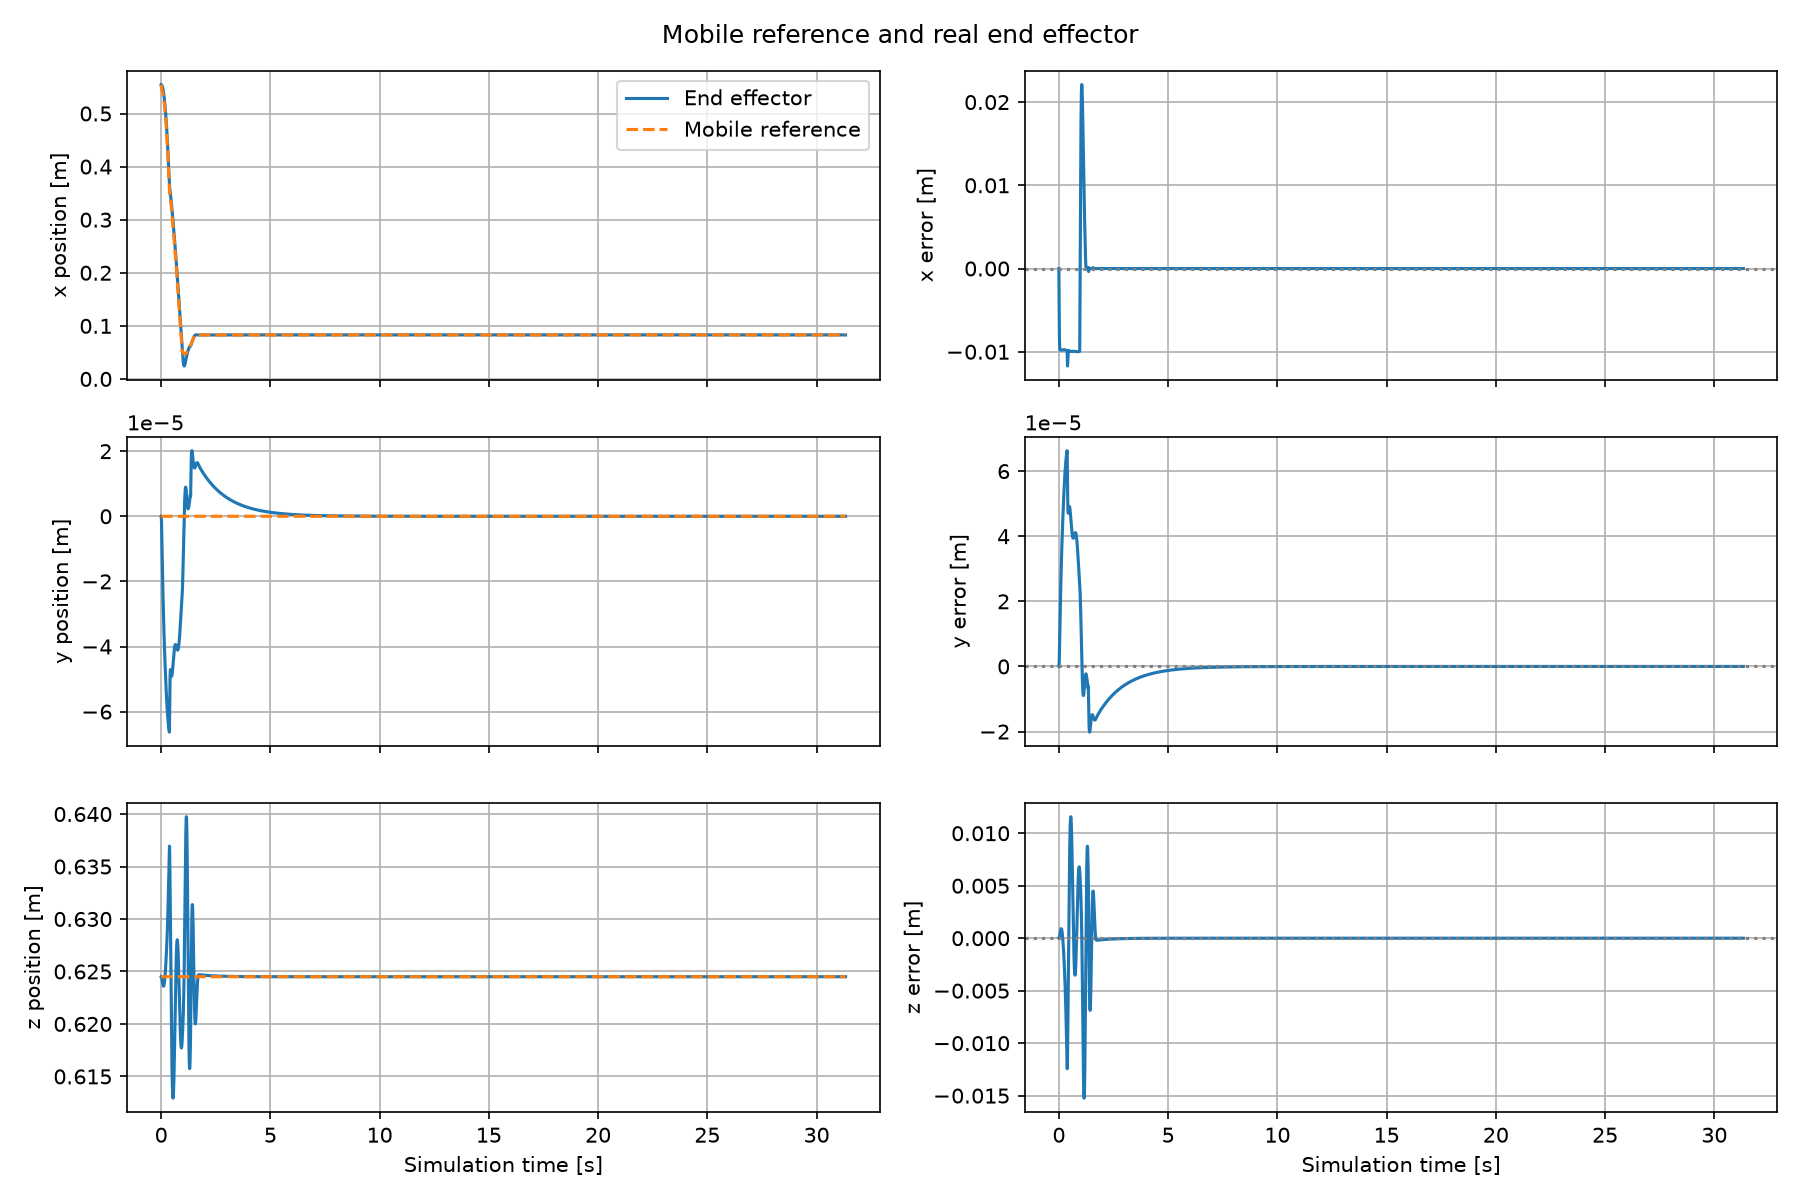
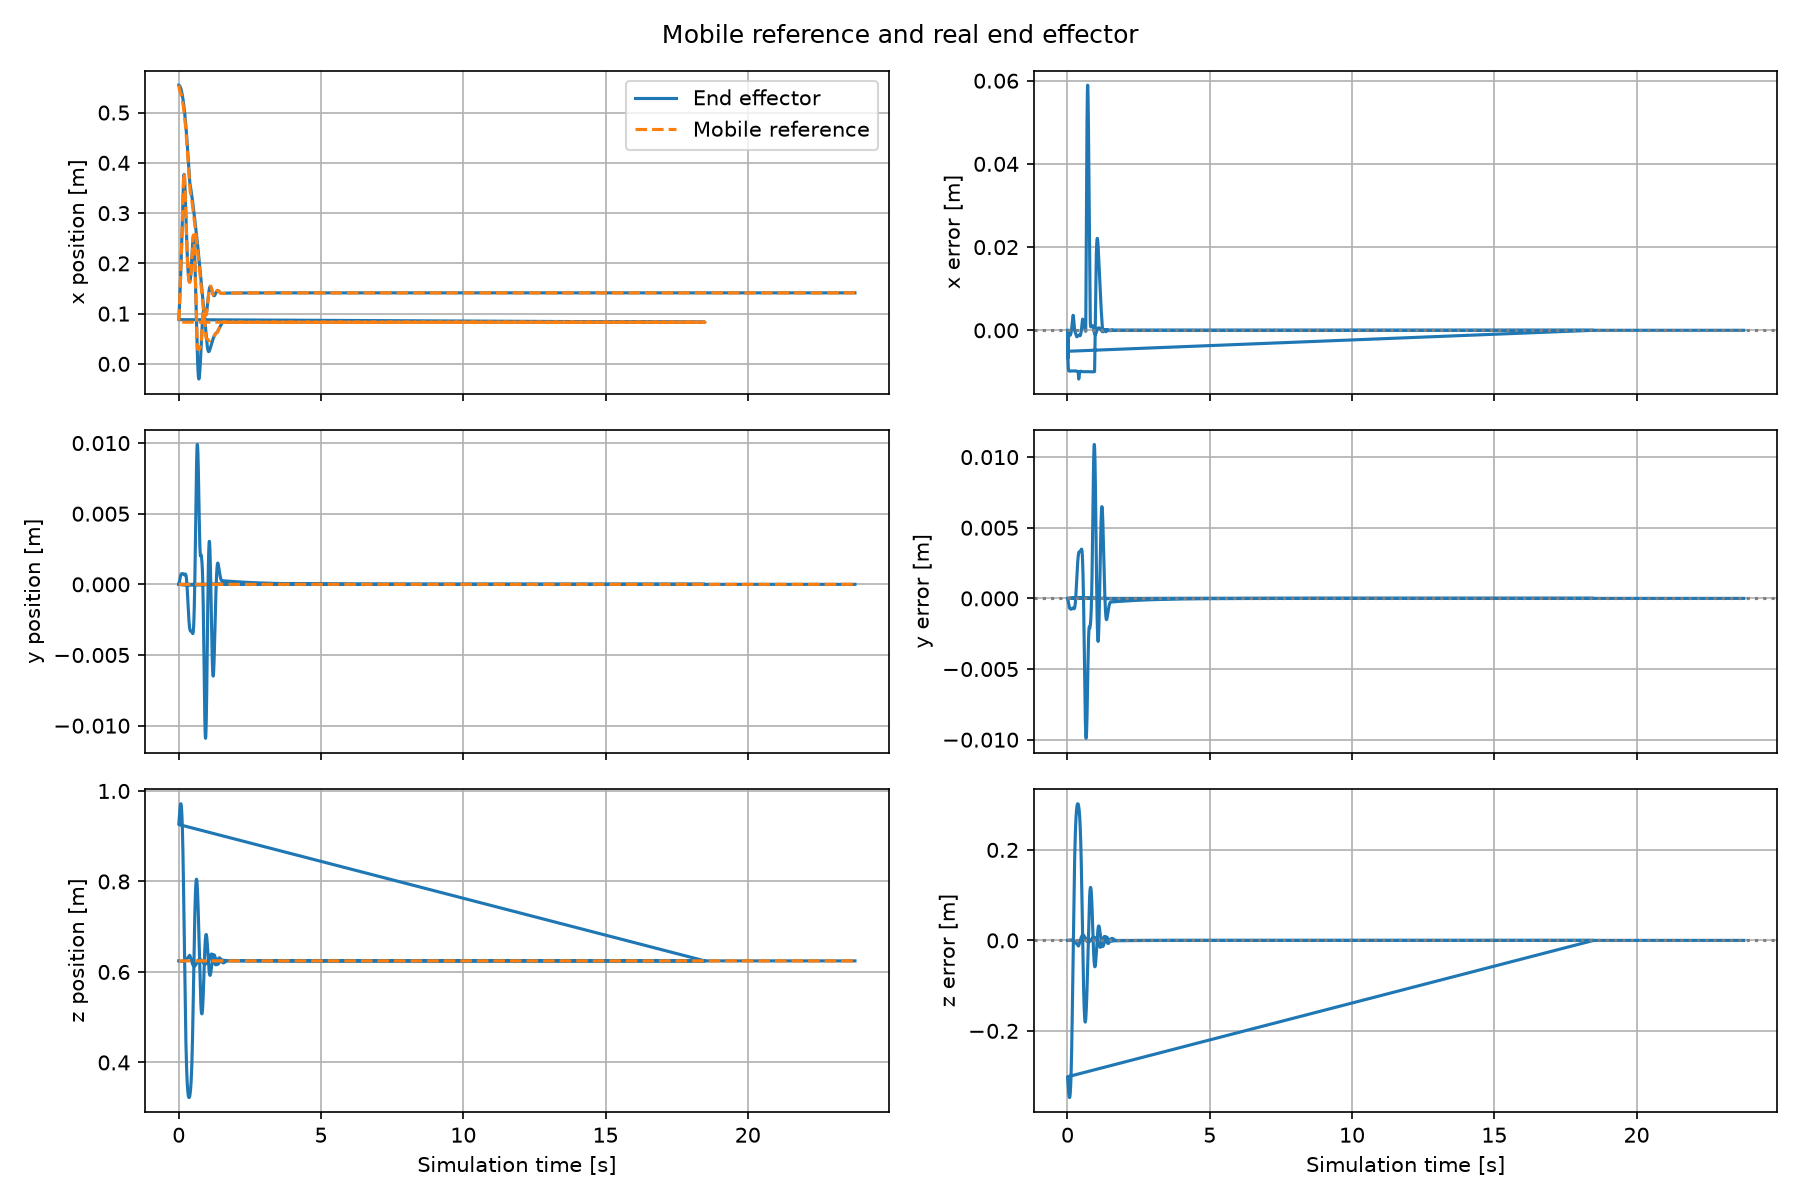
prove ros

diff --git a/FR3/homework2_mobx_fr3.py b/FR3/homework2_mobx_fr3.py
@@ -244,7 +244,7 @@ with mujoco.viewer.launch_passive(model_real, data_real) as viewer:
         # qfrc_applied is indexed by DoF. Because this slide's axis is -x,
         # +20 N in its generalized coordinate pushes the carriage toward -x.
         # Set it every cycle so the post-limit value remains explicitly zero.
-        data_virt.qfrc_applied[rail_dof_id_virt] = 20.0 if rail_force_active else 0.0
+        data_virt.qfrc_applied[rail_dof_id_virt] = 5.0 if rail_force_active else 0.0
 
         # qfrc_actuator is a vector of generalized forces for all eight virtual
         # DoFs. Its first seven entries are the spring-generated joint torques;

diff --git a/ROS2/publisher.py b/ROS2/publisher.py
@@ -1,2 +1,19 @@
 import rclpy
 from std_msgs.msg import String
+
+rclpy.init()
+node = rclpy.create_node("my_publisher")
+publisher = node.create_publisher(String, "chatter", 10) # 10 is the length of the messages queue
+node.get_logger().info("Nodo avviato")
+
+def invia_messaggio():
+    messaggio = String()
+    messaggio.data = "Ciao da ROS 2"
+    publisher.publish(messaggio)
+    node.get_logger().info(f"Pubblicato: {messaggio.data}")
+
+node.create_timer(1.0, invia_messaggio) #it publishes every 1 second
+rclpy.spin(node)           #it keeps the node alive
+
+node.destroy_node()
+rclpy.shutdown()

diff --git a/ROS2/subscriber.py b/ROS2/subscriber.py
@@ -1,0 +1,18 @@
+import rclpy
+from std_msgs.msg import String
+
+rclpy.init()
+node2 = rclpy.create_node("my_subscriber")
+
+def callback(messaggio):
+    node2.get_logger().info(f"Ricevuto: {messaggio.data}")
+
+subscriber = node2.create_subscription(String, "chatter", callback, 10) # 10 is the length of the messages queue
+
+
+
+rclpy.spin(node2)           #it keeps the node alive
+
+node2.destroy_node()
+rclpy.shutdown()
+
